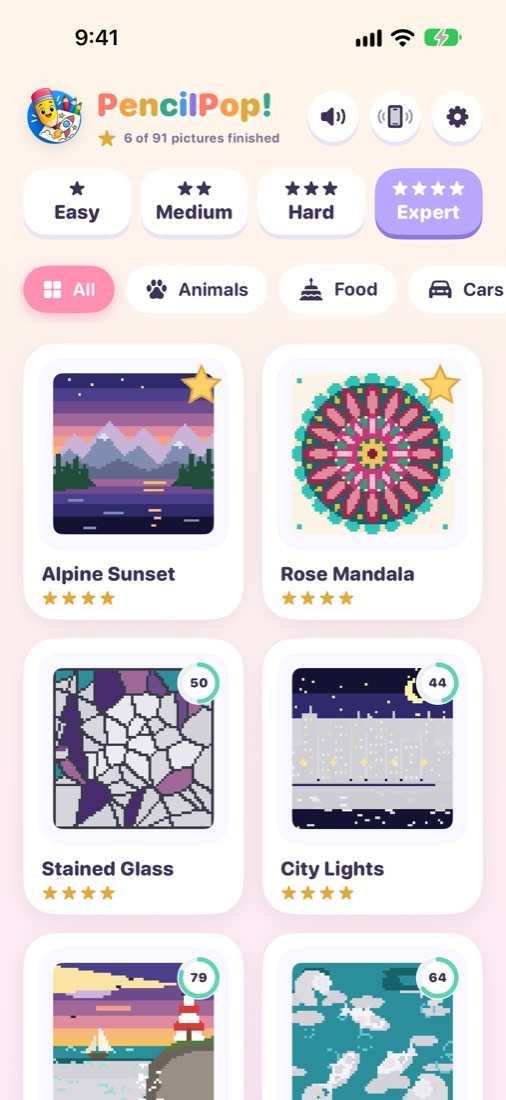
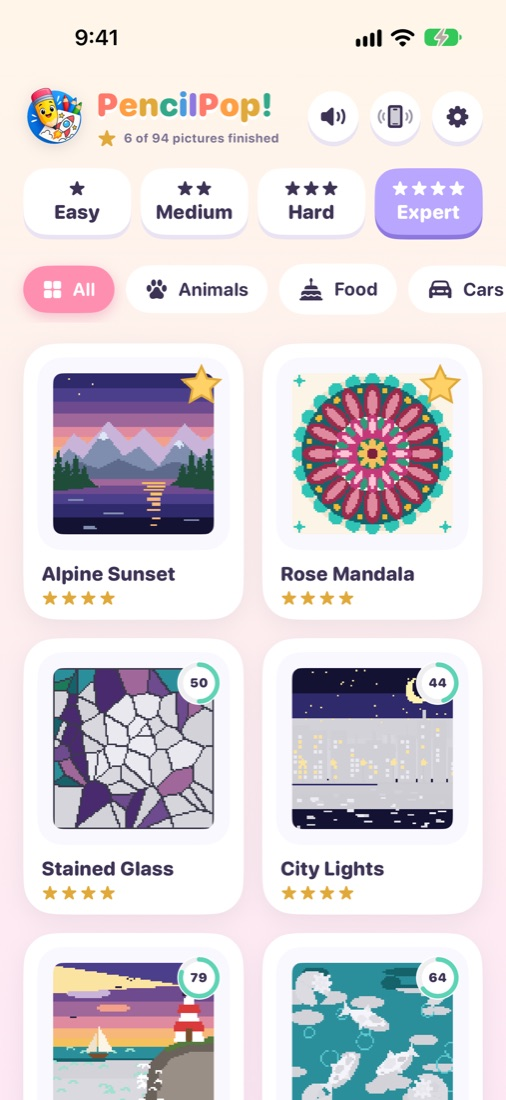
Update PencilPop pages: 96x96 art, beads, Magic Wand, Find, timelapse

diff --git a/pencilpop/index.html b/pencilpop/index.html
@@ -35,17 +35,19 @@
     <section>
       <div class="shots">
         <img src="../assets/pencilpop-1-gallery.jpg" alt="Gallery of Expert paintings">
-        <img src="../assets/pencilpop-2-coloring.jpg" alt="Coloring the Lighthouse Cove painting">
+        <img src="../assets/pencilpop-3-beads.jpg" alt="Zoomed in, every square is a glossy round bead">
         <img src="../assets/pencilpop-6-celebration.jpg" alt="A finished Alpine Sunset painting">
       </div>
     </section>
 
     <section>
       <div class="features">
-        <div class="feature"><h3>Easy to Expert</h3><p>91 pictures on four levels, from bold 16×16 sketches to 64×64 paintings with 20+ shades.</p></div>
+        <div class="feature"><h3>Easy to Expert</h3><p>94 pictures on four levels, from bold 16×16 sketches to detailed 96×96 paintings.</p></div>
+        <div class="feature"><h3>Glossy beads</h3><p>Zoom in and every square turns into a round, shiny bead that pops when you fill it.</p></div>
+        <div class="feature"><h3>Paint in one stroke</h3><p>Touch and hold, then slide to paint a whole row. The Magic Wand fills an entire area at once.</p></div>
+        <div class="feature"><h3>Find the last squares</h3><p>One tap on Find zooms right to the squares you missed.</p></div>
+        <div class="feature"><h3>Timelapse videos</h3><p>Watch your picture paint itself again, then share it as a video.</p></div>
         <div class="feature"><h3>For the whole family</h3><p>Quick pictures for a short break, long calming paintings for a quiet evening.</p></div>
-        <div class="feature"><h3>No wrong answers</h3><p>A wrong tap just wiggles and points to the right color. Every correct tap plays a little tune.</p></div>
-        <div class="feature"><h3>Pinch to zoom</h3><p>Forgiving taps and a one-tap zoom make even the biggest paintings easy to fill.</p></div>
         <div class="feature"><h3>Works offline</h3><p>No account and no sign-in. Your progress stays on your device.</p></div>
         <div class="feature"><h3>Save your art</h3><p>Save finished pictures to Photos as crisp PNG images.</p></div>
       </div>
@@ -53,6 +55,10 @@
 
     <section id="support" class="prose">
       <h2>Support</h2>
+      <details>
+        <summary>How do Magic Wands work?</summary>
+        <p>Tap the wand, then tap an area: every connected square with that number fills at once. You start with 3; watch a short video for 3 more. With “Remove Ads”, wands are unlimited.</p>
+      </details>
       <details>
         <summary>How do I unlock more pictures?</summary>
         <p>Seven pictures are open from the start. Tap any locked picture to watch a short video, and it stays unlocked forever. The one-time “Remove Ads” purchase unlocks every picture and turns off all ads.</p>

diff --git a/index.html b/index.html
@@ -37,8 +37,8 @@
               <span>Color by Number · iPhone &amp; iPad</span>
             </div>
           </div>
-          <p>Relaxing pixel-art coloring for the whole family. 91 pictures across four levels, from quick
-            16×16 sketches to 64×64 paintings with 20+ shades.</p>
+          <p>Relaxing pixel-art coloring for the whole family. 94 pictures across four levels, from quick
+            16×16 sketches to detailed 96×96 paintings, with glossy beads, a Magic Wand and timelapse videos.</p>
           <div class="btn-row">
             <a class="btn" href="pencilpop/">Learn more</a>
             <span class="pill">Coming soon to the App Store</span>
